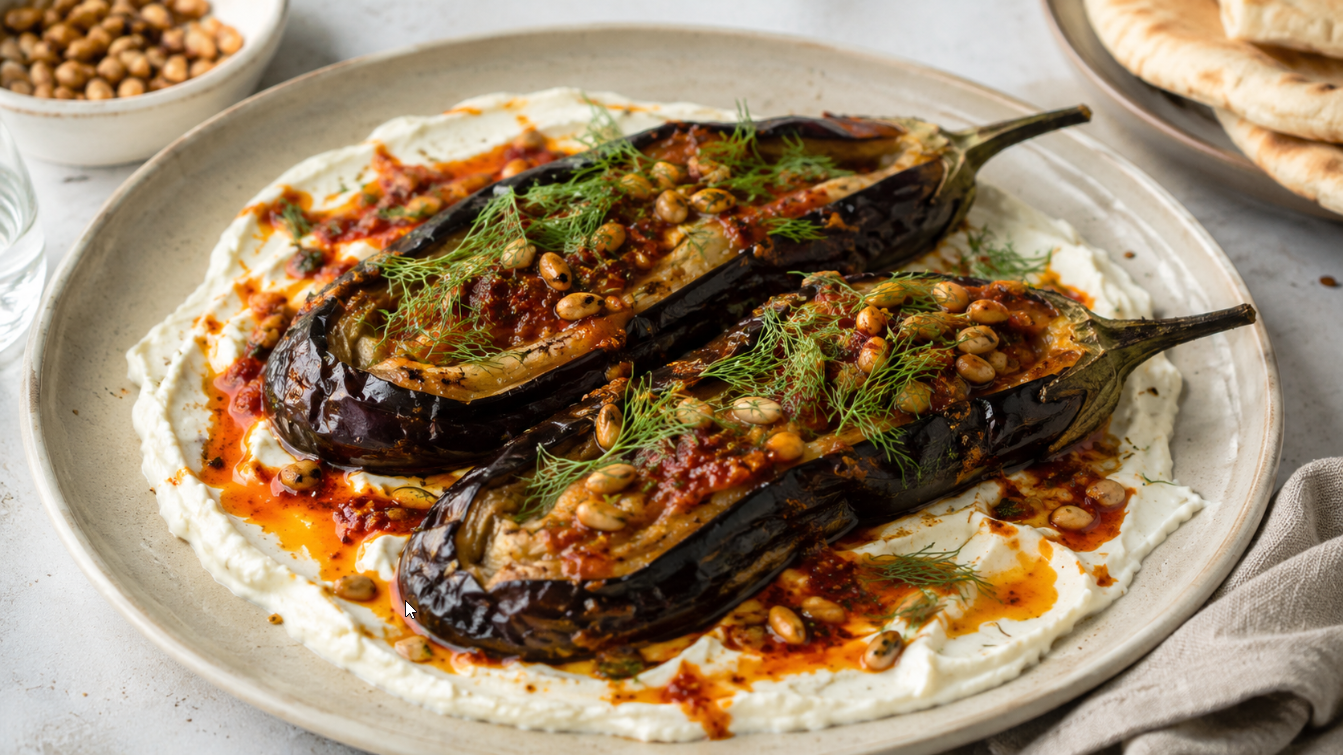
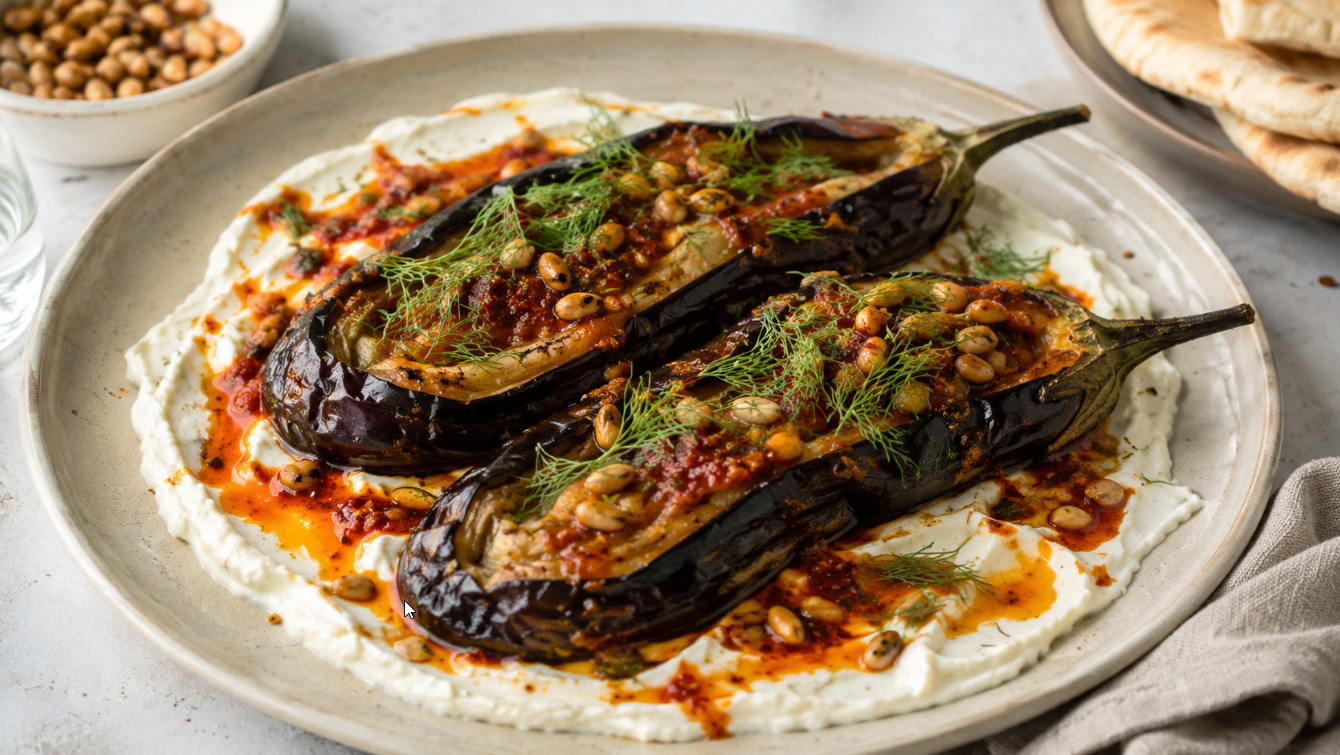
Add second example: BBQ ribs with multiple categories and DB qualifiers
Demonstrates multiple recipeCategory values, [gemalen]/[blad] DB
qualifiers, eiwit protein tag, foreign ingredient names in round
brackets, and temperature conversion. Both example images normalized
to 1340x755.

diff --git a/examples/02-url-ottolenghi-ribs.md b/examples/02-url-ottolenghi-ribs.md
@@ -1,0 +1,103 @@
+# Example: URL input (BBQ recipe with multiple categories)
+
+## Input
+
+```
+https://ottolenghi.co.uk/pages/recipes/smokey-ribs-green-sauce
+```
+
+## Output
+
+```json
+{
+  "@context": "https://schema.org",
+  "@type": "Recipe",
+  "name": "Rokerige varkensribben met groene saus",
+  "url": "https://ottolenghi.co.uk/pages/recipes/smokey-ribs-green-sauce",
+  "image": "https://ottolenghi.co.uk/cdn/shop/files/Smoky_ribs_with_green_sauce.jpg?v=1721732625&width=1000",
+  "description": "Malse, rokerig gekruide varkensribben met een frisse groene saus van peterselie, koriander, knoflook en mosterd. Serveer als stevig hoofdgerecht van de barbecue.",
+  "recipeYield": "4 porties",
+  "prepTime": "PT5M",
+  "cookTime": "PT2H",
+  "recipeCategory": [
+    "BBQ",
+    "Hoofdgerecht"
+  ],
+  "keywords": [
+    "tijd | 60+",
+    "eiwit | varken",
+    "pittig | mild"
+  ],
+  "tool": [
+    "oven",
+    "bakplaat",
+    "keukenmachine",
+    "grillpan",
+    "pan",
+    "kwast",
+    "barbecue"
+  ],
+  "recipeIngredient": [
+    "1.1 kg varkensribben (babybackribs)",
+    "1 tl komijn [gemalen]",
+    "1 tl zoet gerookt paprikapoeder",
+    "1 tl aleppopeper",
+    "2 el bruine suiker",
+    "20 g peterselie, grof gehakt",
+    "20 g koriander [blad], grof gehakt",
+    "1 teentje knoflook, gepeld en geplet",
+    "3 el olijfolie",
+    "2 el plus 1 tl dijonmosterd",
+    "2 el wittewijnazijn",
+    "fijn zeezout, naar smaak",
+    "zwarte peper [gemalen], naar smaak",
+    "citroensap, om te serveren"
+  ],
+  "recipeInstructions": [
+    {
+      "@type": "HowToStep",
+      "text": "Verwarm de oven voor op 160 °C."
+    },
+    {
+      "@type": "HowToStep",
+      "text": "Leg de ribben op een groot vel aluminiumfolie en breng op smaak met de komijn, het paprikapoeder, de aleppopeper, 2 tl bruine suiker, 1 tl zout en een flinke draai zwarte peper. Vouw de folie luchtdicht dicht, leg op een bakplaat en gaar 1 uur en 40 minuten, tot de ribben mals zijn maar nog niet van het bot vallen."
+    },
+    {
+      "@type": "HowToStep",
+      "text": "Doe intussen de peterselie, koriander, olijfolie, knoflook, 1 tl dijonmosterd en een snuf zout in de kleine kom van een keukenmachine. Pulseer 30 seconden tot alles gemengd is en zet apart."
+    },
+    {
+      "@type": "HowToStep",
+      "text": "Verhit, zodra de ribben gaar zijn, een grillpan op middelhoog tot hoog vuur. Leg de ribben op een snijplank en halveer elk rek."
+    },
+    {
+      "@type": "HowToStep",
+      "text": "Giet het kookvocht uit de folie in een kleine pan en voeg de resterende 2 el dijonmosterd, de wittewijnazijn en de resterende 4 tl bruine suiker toe. Kook 2 minuten op middelhoog tot hoog vuur, tot de glaze is ingekookt en dik genoeg is om de achterkant van een lepel te bedekken."
+    },
+    {
+      "@type": "HowToStep",
+      "text": "Bestrijk de ribben met een dunne laag glaze. Gril elke kant 30 seconden, tot er grillstrepen ontstaan, draai om en herhaal; doe dit 2 tot 3 keer, of tot alle glaze is gebruikt."
+    },
+    {
+      "@type": "HowToStep",
+      "text": "Leg de ribben op een serveerbord en schep de groene saus over elk stuk. Serveer met citroensap eroverheen gesprenkeld."
+    }
+  ]
+}
+```
+
+## What to notice
+
+- **Multiple categories.** `["BBQ", "Hoofdgerecht"]` shows how recipes can have up to 3 categories from the whitelist.
+- **DB qualifiers.** `komijn [gemalen]`, `koriander [blad]`, and `zwarte peper [gemalen]` use square brackets to match Mealie ingredient database entries.
+- **Protein tag.** `eiwit | varken` tags the main animal protein source. This tag is only used for non-vegetarian recipes.
+- **Time tag.** `tijd | 60+` because total time exceeds 60 minutes (2h5m).
+- **Foreign ingredient name.** `varkensribben (babybackribs)` keeps the common English term in round brackets as a note.
+- **Temperature conversion.** The source temperature is converted to Celsius.
+- **Spice level.** `pittig | mild` because aleppopeper adds mild heat but this is not a spicy dish.
+
+## Generated image
+
+After parsing, type `/image` to generate a food photo:
+
+![Rokerige varkensribben met groene saus](02-url-ottolenghi-ribs.jpg)
